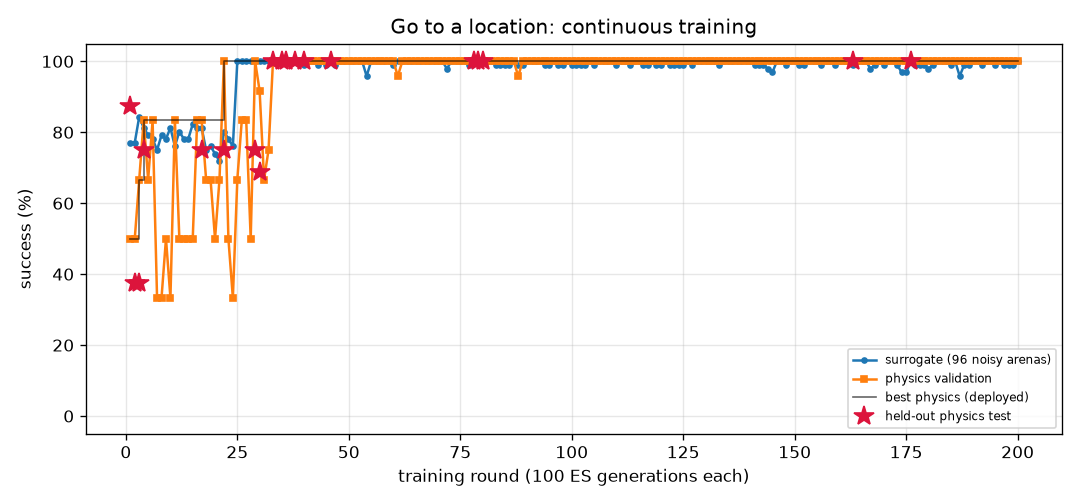
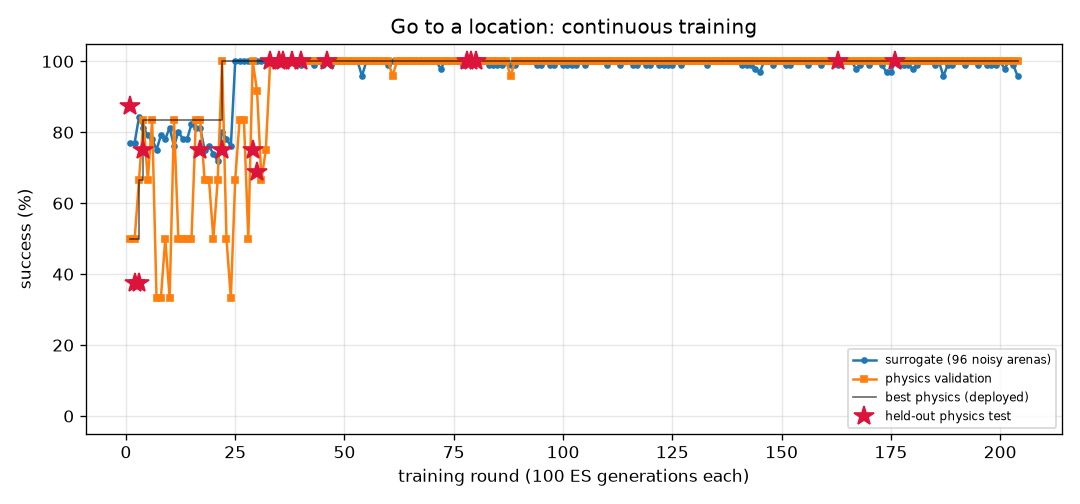
FlyLab: continuous training progress
- walk_forward: optimal, physics val 100% of 24, round 247
- turn: optimal, physics val 100% of 24, round 772
- goto: optimal, physics val 100% of 24, round 204
- odor_seek: optimal, physics val 100% of 24, round 173
- odor_avoid: optimal, physics val 100% of 24, round 711
- light_seek: optimal, physics val 100% of 24, round 399
- light_avoid: optimal, physics val 100% of 24, round 447

diff --git a/projects/09_flylab/training/goto/REPORT.md b/projects/09_flylab/training/goto/REPORT.md
@@ -1,14 +1,14 @@
 # Go to a location (`goto`) — training report
 
-*Auto-generated by `train_brains.py`, last updated 2026-10-31T22:05:56.*
+*Auto-generated by `train_brains.py`, last updated 2026-10-31T23:05:06.*
 
 ![curve](curve.png)
 
 | | |
 |---|---|
-| rounds | 200 |
-| ES generations | 20000 |
-| physics runs | 4750 |
+| rounds | 204 |
+| ES generations | 20400 |
+| physics runs | 4846 |
 | status | **optimal** |
 | best brain | round 176: physics validation **100%** on 24 arenas, surrogate 100% |
 | held-out physics test | **100%** on 32 unseen arenas (95% CI 89%-100%) (errors: [0.2, 0.32, 0.19, 0.24, 0.18, 0.2, 0.19, 0.17, 0.22, 0.23, 0.23, 0.26, 0.2, 0.19, 0.24, 0.23, 0.22, 0.24, 0.2, 0.22, 0.2, 0.2, 0.26, 0.19, 0.22, 0.18, 0.26, 0.22, 0.2, 0.26, 0.23, 0.23]) |
@@ -17,10 +17,6 @@ Physics error per arena: mm from target at the end (< 1.5 and standing still = s
 
 | round | level | gens | sigma | surrogate | physics val | val errors | test | note |
 |---:|---:|---:|---:|---:|---:|---|---:|---|
-| 161 | 3 | 16100 | 0.024 | 100% | 100% | [0.49, 0.5, 0.36, 0.41, 0.36, 0.41, 0.47, 0.46, 0.44, 0.38, 0.36, 0.4, 0.47, 0.41, 0.47, 0.45, 0.53, 0.4, 0.36, 0.45, 0.42, 0.37, 0.52, 0.43] |  |  |
-| 162 | 3 | 16200 | 0.024 | 100% | 100% | [0.45, 0.5, 0.38, 0.42, 0.12, 0.4, 0.43, 0.43, 0.44, 0.41, 0.38, 0.42, 0.45, 0.39, 0.5, 0.44, 0.5, 0.29, 0.38, 0.45, 0.43, 0.4, 0.49, 0.42] |  |  |
-| 163 | 3 | 16300 | 0.024 | 99% | 100% | [0.28, 0.31, 0.22, 0.26, 0.23, 0.27, 0.27, 0.31, 0.29, 0.23, 0.22, 0.26, 0.3, 0.28, 0.26, 0.26, 0.29, 0.23, 0.21, 0.26, 0.26, 0.2, 0.31, 0.28] | 100% | new best |
-| 164 | 3 | 16400 | 0.025 | 100% | 100% | [0.59, 0.6, 0.63, 0.55, 0.49, 0.52, 0.63, 0.56, 0.62, 0.5, 0.51, 0.53, 0.62, 0.48, 0.58, 0.55, 0.62, 0.55, 0.5, 0.59, 0.53, 0.5, 0.61, 0.54] |  |  |
 | 165 | 3 | 16500 | 0.024 | 100% | 100% | [0.4, 0.36, 0.35, 0.3, 0.27, 0.28, 0.4, 0.29, 0.34, 0.28, 0.28, 0.29, 0.34, 0.26, 0.36, 0.32, 0.36, 0.29, 0.29, 0.31, 0.31, 0.27, 0.34, 0.29] |  |  |
 | 166 | 3 | 16600 | 0.024 | 100% | 100% | [0.5, 0.45, 0.45, 0.37, 0.36, 0.39, 0.48, 0.39, 0.36, 0.36, 0.33, 0.36, 0.44, 0.32, 0.43, 0.4, 0.46, 0.42, 0.37, 0.4, 0.39, 0.34, 0.42, 0.37] |  |  |
 | 167 | 3 | 16700 | 0.024 | 98% | 100% | [0.38, 0.36, 0.32, 0.29, 0.3, 0.25, 0.41, 0.28, 0.28, 0.3, 0.28, 0.29, 0.33, 0.28, 0.39, 0.35, 0.37, 0.26, 0.29, 0.33, 0.32, 0.3, 0.34, 0.26] |  | restart from best |
@@ -57,3 +53,7 @@ Physics error per arena: mm from target at the end (< 1.5 and standing still = s
 | 198 | 3 | 19800 | 0.025 | 99% | 100% | [0.59, 0.63, 0.64, 0.54, 0.56, 0.52, 0.6, 0.56, 0.55, 0.55, 0.54, 0.56, 0.62, 0.55, 0.66, 0.64, 0.61, 0.52, 0.53, 0.59, 0.6, 0.57, 0.63, 0.54] |  |  |
 | 199 | 3 | 19900 | 0.025 | 99% | 100% | [0.68, 0.67, 0.69, 0.58, 0.57, 0.6, 0.67, 0.62, 0.61, 0.53, 0.53, 0.56, 0.65, 0.57, 0.58, 0.6, 0.68, 0.62, 0.55, 0.61, 0.6, 0.51, 0.69, 0.59] |  |  |
 | 200 | 3 | 20000 | 0.025 | 100% | 100% | [0.49, 0.52, 0.56, 0.45, 0.53, 0.47, 0.52, 0.53, 0.47, 0.49, 0.5, 0.47, 0.52, 0.52, 0.57, 0.55, 0.53, 0.44, 0.49, 0.51, 0.56, 0.52, 0.54, 0.47] |  | restart from best |
+| 201 | 3 | 20100 | 0.024 | 98% | 100% | [0.33, 0.32, 0.29, 0.32, 0.25, 0.31, 0.28, 0.35, 0.35, 0.24, 0.26, 0.31, 0.34, 0.28, 0.22, 0.28, 0.34, 0.31, 0.23, 0.34, 0.27, 0.25, 0.34, 0.32] |  |  |
+| 202 | 3 | 20200 | 0.025 | 100% | 100% | [0.43, 0.47, 0.49, 0.48, 0.38, 0.44, 0.47, 0.49, 0.45, 0.4, 0.38, 0.46, 0.45, 0.42, 0.42, 0.49, 0.46, 0.46, 0.38, 0.46, 0.46, 0.42, 0.44, 0.48] |  |  |
+| 203 | 3 | 20300 | 0.024 | 99% | 100% | [0.53, 0.56, 0.49, 0.45, 0.43, 0.44, 0.58, 0.47, 0.49, 0.44, 0.41, 0.44, 0.55, 0.41, 0.48, 0.49, 0.57, 0.47, 0.43, 0.49, 0.47, 0.45, 0.55, 0.46] |  |  |
+| 204 | 3 | 20400 | 0.025 | 96% | 100% | [0.33, 0.35, 0.31, 0.25, 0.3, 0.24, 0.34, 0.27, 0.26, 0.24, 0.27, 0.24, 0.29, 0.27, 0.34, 0.33, 0.32, 0.25, 0.24, 0.28, 0.31, 0.25, 0.31, 0.23] |  | restart from best |

diff --git a/projects/09_flylab/training/odor_seek/REPORT.md b/projects/09_flylab/training/odor_seek/REPORT.md
@@ -1,14 +1,14 @@
 # Find food by smell (`odor_seek`) — training report
 
-*Auto-generated by `train_brains.py`, last updated 2026-10-30T22:20:41.*
+*Auto-generated by `train_brains.py`, last updated 2026-10-31T23:06:19.*
 
 ![curve](curve.png)
 
 | | |
 |---|---|
-| rounds | 170 |
-| ES generations | 17000 |
-| physics runs | 3510 |
+| rounds | 173 |
+| ES generations | 17300 |
+| physics runs | 3582 |
 | status | **optimal** |
 | best brain | round 137: physics validation **100%** on 24 arenas, surrogate 100% |
 | held-out physics test | **100%** on 32 unseen arenas (95% CI 89%-100%) (errors: [0.14, 0.05, 0.19, 0.15, 0.13, 0.08, 0.06, 0.06, 0.04, 0.06, 0.02, 0.11, 0.05, 0.1, 0.06, 0.01, 0.11, 0.12, 0.14, 0.08, 0.12, 0.06, 0.06, 0.09, 0.12, 0.05, 0.07, 0.07, 0.12, 0.11, 0.06, 0.11]) |
@@ -17,9 +17,6 @@ Physics error per arena: mm from target at the end (< 1.5 and standing still = s
 
 | round | level | gens | sigma | surrogate | physics val | val errors | test | note |
 |---:|---:|---:|---:|---:|---:|---|---:|---|
-| 131 | 3 | 13100 | 0.024 | 100% | 100% | [0.17, 0.25, 0.19, 0.22, 0.26, 0.15, 0.21, 0.2, 0.2, 0.31, 0.15, 0.19, 0.21, 0.21, 0.18, 0.19, 0.15, 0.14, 0.18, 0.2, 0.2, 0.24, 0.15, 0.11] |  | restart from best |
-| 132 | 3 | 13200 | 0.024 | 100% | 100% | [0.21, 0.29, 0.24, 0.26, 0.28, 0.3, 0.27, 0.21, 0.21, 0.25, 0.22, 0.2, 0.19, 0.27, 0.2, 0.13, 0.18, 0.23, 0.21, 0.19, 0.21, 0.31, 0.24, 0.21] |  |  |
-| 133 | 3 | 13300 | 0.024 | 100% | 100% | [0.17, 0.18, 0.16, 0.2, 0.17, 0.23, 0.14, 0.26, 0.17, 0.22, 0.16, 0.18, 0.15, 0.28, 0.23, 0.23, 0.26, 0.18, 0.17, 0.22, 0.16, 0.23, 0.17, 0.24] |  |  |
 | 134 | 3 | 13400 | 0.024 | 100% | 100% | [0.08, 0.09, 0.17, 0.12, 0.08, 0.05, 0.16, 0.12, 0.15, 0.05, 0.03, 0.08, 0.09, 0.05, 0.09, 0.12, 0.06, 0.06, 0.06, 0.11, 0.11, 0.05, 0.14, 0.15] | 100% | new best |
 | 135 | 3 | 13500 | 0.024 | 100% | 100% | [0.04, 0.12, 0.17, 0.08, 0.09, 0.15, 0.06, 0.09, 0.09, 0.11, 0.14, 0.17, 0.05, 0.14, 0.11, 0.13, 0.01, 0.13, 0.08, 0.0, 0.12, 0.14, 0.15, 0.14] |  |  |
 | 136 | 3 | 13600 | 0.024 | 100% | 100% | [0.15, 0.12, 0.11, 0.1, 0.03, 0.1, 0.07, 0.04, 0.06, 0.04, 0.13, 0.03, 0.1, 0.06, 0.14, 0.12, 0.11, 0.07, 0.13, 0.04, 0.1, 0.17, 0.13, 0.02] |  |  |
@@ -57,3 +54,6 @@ Physics error per arena: mm from target at the end (< 1.5 and standing still = s
 | 168 | 3 | 16800 | 0.024 | 100% | 96% | [0.22, 0.19, 0.07, 0.12, 0.03, 0.18, 0.11, 0.13, 0.14, 0.08, 18.92, 0.16, 0.19, 0.28, 0.18, 0.09, 0.04, 0.09, 0.19, 0.08, 0.14, 0.07, 0.05, 0.08] |  |  |
 | 169 | 3 | 16900 | 0.024 | 100% | 100% | [0.13, 0.17, 0.18, 0.08, 0.22, 0.36, 0.21, 0.11, 0.25, 0.27, 0.28, 0.21, 0.26, 0.25, 0.16, 0.08, 0.33, 0.08, 0.14, 0.06, 0.11, 0.15, 0.25, 0.1] |  | restart from best |
 | 170 | 3 | 17000 | 0.024 | 100% | 100% | [0.2, 0.14, 0.2, 0.23, 0.12, 0.14, 0.14, 0.14, 0.18, 0.15, 0.19, 0.22, 0.14, 0.13, 0.24, 0.13, 0.17, 0.15, 0.2, 0.15, 0.13, 0.13, 0.18, 0.24] |  |  |
+| 171 | 3 | 17100 | 0.024 | 100% | 100% | [0.19, 0.19, 0.13, 0.17, 0.13, 0.15, 0.14, 0.11, 0.2, 0.23, 0.14, 0.22, 0.16, 0.24, 0.21, 0.15, 0.18, 0.26, 0.17, 0.16, 0.23, 0.21, 0.12, 0.15] |  |  |
+| 172 | 3 | 17200 | 0.024 | 100% | 100% | [0.2, 0.26, 0.23, 0.21, 0.19, 0.19, 0.21, 0.32, 0.27, 0.18, 0.27, 0.23, 0.21, 0.2, 0.16, 0.19, 0.19, 0.15, 0.19, 0.2, 0.18, 0.19, 0.21, 0.19] |  |  |
+| 173 | 3 | 17300 | 0.024 | 100% | 100% | [0.22, 0.23, 0.23, 0.23, 0.24, 0.24, 0.18, 0.26, 0.22, 0.21, 0.28, 0.24, 0.27, 0.19, 0.25, 0.26, 0.23, 0.23, 0.23, 0.25, 0.2, 0.19, 0.2, 0.22] |  | restart from best |

diff --git a/projects/09_flylab/training/turn/REPORT.md b/projects/09_flylab/training/turn/REPORT.md
@@ -1,14 +1,14 @@
 # Turn in place (`turn`) — training report
 
-*Auto-generated by `train_brains.py`, last updated 2026-10-31T19:35:46.*
+*Auto-generated by `train_brains.py`, last updated 2026-10-31T23:11:43.*
 
 ![curve](curve.png)
 
 | | |
 |---|---|
-| rounds | 771 |
-| ES generations | 77100 |
-| physics runs | 18750 |
+| rounds | 772 |
+| ES generations | 77200 |
+| physics runs | 18774 |
 | status | **optimal** |
 | best brain | round 80: physics validation **100%** on 24 arenas, surrogate 100% |
 | held-out physics test | **97%** on 32 unseen arenas (95% CI 84%-99%) (errors: [1.6, 3.3, 6.3, 3.7, 1.1, 0.4, 2.4, 2.9, 0.1, 2.6, 0.5, 2.7, 1.5, 3.1, 4.5, 0.2, 0.5, 1.1, 2.0, 4.4, 2.8, 3.2, 0.3, 2.2, 0.5, 3.0, 0.3, 5.4, 0.4, 1.0, 4.7, 10.7]) |
@@ -17,7 +17,6 @@ Physics error per arena: deg from target heading (< 20 = success).
 
 | round | level | gens | sigma | surrogate | physics val | val errors | test | note |
 |---:|---:|---:|---:|---:|---:|---|---:|---|
-| 732 | 3 | 73200 | 0.025 | 100% | 75% | [3.9, 3.8, 1.0, 0.2, 0.5, 1.1, 5.7, 6.6, 4.9, 0.8, 5.8, 0.8, 0.8, 2.6, 5.9, 1.6, 0.7, 2.8, 2.4, 2.5, 3.4, 1.7, 7.7, 6.8] |  | restart from best |
 | 733 | 3 | 73300 | 0.024 | 99% | 100% | [1.8, 8.6, 3.6, 0.8, 1.1, 3.4, 3.2, 1.3, 5.0, 1.5, 2.7, 0.9, 3.5, 4.3, 2.6, 1.6, 0.7, 1.3, 1.5, 0.9, 6.1, 0.9, 5.2, 0.6] |  |  |
 | 734 | 3 | 73400 | 0.025 | 99% | 83% | [3.7, 3.0, 3.5, 1.0, 0.6, 3.3, 5.0, 6.8, 5.0, 0.2, 4.7, 0.2, 1.0, 1.7, 4.4, 0.9, 0.3, 1.5, 0.8, 4.5, 4.5, 1.7, 0.1, 5.2] |  |  |
 | 735 | 3 | 73500 | 0.025 | 100% | 83% | [5.3, 5.6, 2.8, 0.0, 2.0, 0.8, 3.3, 2.8, 3.3, 0.8, 3.8, 0.7, 2.1, 3.6, 4.5, 0.7, 0.5, 0.1, 0.3, 1.3, 4.4, 0.6, 4.7, 1.2] |  |  |
@@ -57,3 +56,4 @@ Physics error per arena: deg from target heading (< 20 = success).
 | 769 | 3 | 76900 | 0.024 | 100% | 75% | [6.7, 7.9, 1.4, 1.8, 1.3, 2.3, 4.2, 3.4, 3.4, 0.5, 3.9, 0.8, 3.9, 2.6, 3.8, 0.5, 0.8, 1.2, 0.8, 0.9, 2.9, 1.2, 3.5, 1.5] |  |  |
 | 770 | 3 | 77000 | 0.024 | 97% | 79% | [5.8, 3.0, 5.5, 0.4, 8.1, 1.2, 6.3, 8.2, 5.9, 0.2, 5.8, 0.1, 1.9, 0.3, 5.2, 2.1, 0.2, 1.3, 1.7, 1.5, 7.8, 0.0, 6.8, 6.0] |  |  |
 | 771 | 3 | 77100 | 0.026 | 99% | 71% | [0.6, 6.1, 2.3, 2.8, 3.4, 0.5, 5.6, 0.5, 4.7, 1.1, 5.2, 0.5, 0.4, 0.8, 6.2, 1.2, 0.9, 2.5, 1.1, 1.0, 5.4, 2.6, 5.9, 4.5] |  |  |
+| 772 | 3 | 77200 | 0.025 | 99% | 75% | [3.4, 3.6, 1.8, 1.8, 2.4, 2.9, 4.0, 7.5, 4.3, 1.1, 5.7, 0.7, 1.2, 1.8, 5.0, 0.1, 0.7, 1.6, 0.4, 0.5, 1.5, 0.9, 5.0, 4.3] |  | restart from best |

diff --git a/projects/09_flylab/training/TRAINING.md b/projects/09_flylab/training/TRAINING.md
@@ -1,15 +1,15 @@
 # FlyLab brains — continuous training log
 
-*Auto-generated by `train_brains.py`, last updated 2026-10-31T22:15:03.*
+*Auto-generated by `train_brains.py`, last updated 2026-10-31T23:11:43.*
 
 Every skill has its own brain and its own training process: surrogate ES rounds, physics validation in MuJoCo, keep-the-best selection, and a held-out physics test that is never used for selection. See each skill's report for its full round-by-round history. Mastery is progressive: passing a level (100% physics validation, >=95% surrogate) doubles the validation and test arena sets; a brain is **optimal** once it holds up at level 3 (>=95% of 24 validation arenas) AND scores >=90% on the 32 held-out test arenas. Test columns show 95% Wilson confidence intervals.
 
 | skill | rounds | ES generations | physics runs | surrogate | physics val | **physics test** | status |
 |---|---:|---:|---:|---:|---:|---:|---|
 | [Walk forward](walk_forward/REPORT.md) | 247 | 24700 | 5942 | 100% | 100% of 24 | 100% of 32 (CI 89-100%) | **optimal** |
-| [Turn in place](turn/REPORT.md) | 771 | 77100 | 18750 | 100% | 100% of 24 | 97% of 32 (CI 84-99%) | **optimal** |
-| [Go to a location](goto/REPORT.md) | 200 | 20000 | 4750 | 100% | 100% of 24 | 100% of 32 (CI 89-100%) | **optimal** |
-| [Find food by smell](odor_seek/REPORT.md) | 170 | 17000 | 3510 | 100% | 100% of 24 | 100% of 32 (CI 89-100%) | **optimal** |
+| [Turn in place](turn/REPORT.md) | 772 | 77200 | 18774 | 100% | 100% of 24 | 97% of 32 (CI 84-99%) | **optimal** |
+| [Go to a location](goto/REPORT.md) | 204 | 20400 | 4846 | 100% | 100% of 24 | 100% of 32 (CI 89-100%) | **optimal** |
+| [Find food by smell](odor_seek/REPORT.md) | 173 | 17300 | 3582 | 100% | 100% of 24 | 100% of 32 (CI 89-100%) | **optimal** |
 | [Escape a bad smell](odor_avoid/REPORT.md) | 711 | 71100 | 14370 | 97% | 100% of 24 | 97% of 32 (CI 84-99%) | **optimal** |
 | [Walk toward light](light_seek/REPORT.md) | 399 | 39900 | 6456 | 100% | 100% of 24 | 100% of 32 (CI 89-100%) | **optimal** |
 | [Hide from light](light_avoid/REPORT.md) | 447 | 44700 | 11000 | 100% | 100% of 24 | 100% of 32 (CI 89-100%) | **optimal** |
